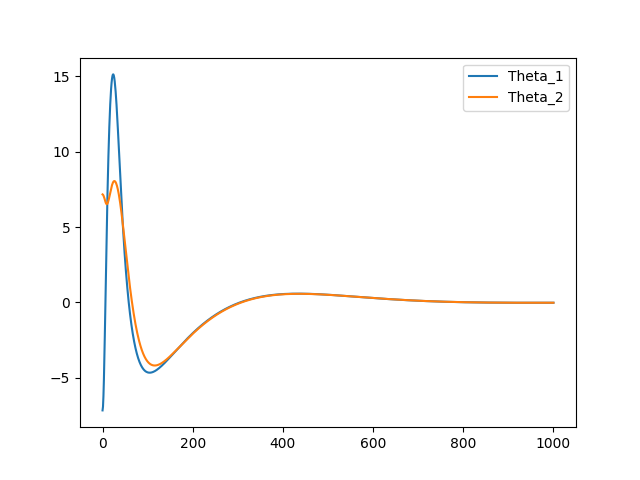
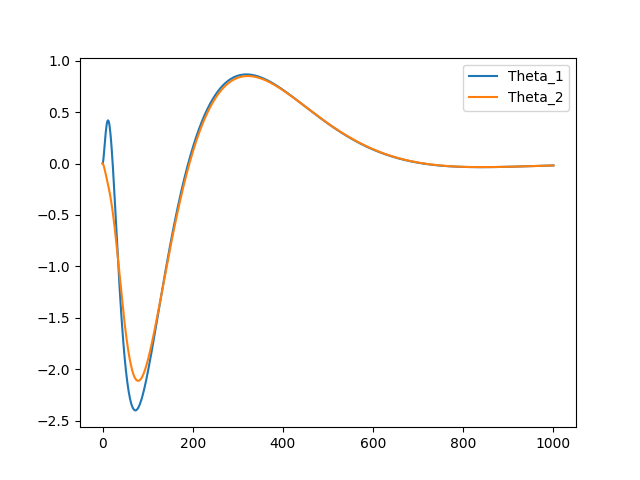
xf kinda works

diff --git a/src/ellipsoidal_method_easy.py b/src/ellipsoidal_method_easy.py
@@ -51,24 +51,21 @@ def eigen_polyhedron(P, c=1.0):
 
 
 
-def findX1(A, B, K, P, Q, R, x_ub, x_lb, u_ub, u_lb, c, initial_upper=5.0, tol=1e-3, max_iter=50):
-    """
-    Finds largest polyhedral set aligned with eigenvectors of P such that all vertices are feasible.
-    Uses binary search over the scaling factor.
-    """
-    lower = initial_upper
-    upper = initial_upper*2
+def findX1(A, B, K, P, Q, R, x_ub, x_lb, u_ub, u_lb, c, max_iter=100, tol=1e-3):
+
+    scale = 1.001
     best_scale = 0.0
     best_V = None
 
     for _ in range(max_iter):
-        scale = (upper + lower) / 2.0
         V_check = eigen_polyhedron(P, scale)
         all_satisfied = True
 
         for v in V_check:
             v = v.reshape(-1, 1)
-            u = mpc_solve_X(A, B, Q, R, P, v, 10, x_lb, x_ub, u_lb, u_ub, c)
+
+            u = mpc_solve_X(A, B, Q, R, P, v, 1, x_lb, x_ub, u_lb, u_ub, c)
+
             if u is None:
                 all_satisfied = False
                 break
@@ -76,19 +73,20 @@ def findX1(A, B, K, P, Q, R, x_ub, x_lb, u_ub, u_lb, c, initial_upper=5.0, tol=1
         if all_satisfied:
             best_scale = scale
             best_V = V_check
-            lower = scale  # Try bigger set
+            scale *= 1.1  # Try larger set
+            print(f"Increasing set size:",scale)
         else:
-            upper = scale  # Too large, reduce
+            scale *= 0.9  # Reduce set size
+            print(f"decreasing set size:",scale)
             
-        if abs(upper - lower) < tol:
+        if abs(scale - best_scale) < tol:
             break
 
     return best_V, best_scale
 
 
 
-
-def find_maximal_terminal_set(A, B, K, P, Q, R, x_ub, x_lb, u_ub, u_lb, max_iter=1000, tol=1e-5):
+def find_maximal_terminal_set(A, B, K, P, Q, R, x_ub, x_lb, u_ub, u_lb, max_iter=1000, tol=0):
     """
     Finds the maximal terminal set satisfying all constraints
     
@@ -172,6 +170,9 @@ def solve_lyapunov_discrete(A, Q):
     P = vec_P.reshape(n, n)
     
     return P
+
+def random_point_check(A, B, K, P, Q, R, x_ub, x_lb, u_ub, u_lb, c, max_iter=100, tol=1e-3):
+    
     
 
 def get_minimum_volume_ellipse(points, tolerance=0.01):
@@ -240,7 +241,7 @@ def project_vertices_2d(vertices, state_indices=[0, 1], ax=None, color='blue'):
     center, A = get_minimum_volume_ellipse(proj_vertices)
 
     for i in range(vertices.shape[0]):
-        ax.plot(vertices[i,state_indices[0]],vertices[i,state_indices[1]],'*')
+        ax.plot(vertices[i,0],vertices[i,1],'*')
     
     # Get ellipse parameters (SVD of shape matrix)
     U, s, V = np.linalg.svd(A)
@@ -262,7 +263,7 @@ def project_vertices_2d(vertices, state_indices=[0, 1], ax=None, color='blue'):
     ax.legend()
     ax.set_aspect('equal')  # Ensure equal scaling for x and y axes
     
-    return fig, ax
+    return fig, ax  
 
 if __name__ == '__main__':
     path_in_dir_script = Path(__file__).parent #fold where the main script is
@@ -272,54 +273,14 @@ if __name__ == '__main__':
     with open(path_in_dir_script/"config.json", "r") as file:
         params = json.load(file) 
 
-    #defining the constants
-    M, m1, m2 = params["M"], params["m1"], params["m2"]
-    L1, L2 = params["L1"], params["L2"]
-    l1, l2 = params["l1"], params["l2"]
-    I1, I2 = params["I1"], params["I2"]
-    g = params["g"]
 
-    #defining the matrices for the linearized system
+    dt = 0.01
 
-    J = np.array([[1,0,0,0,0,0],
-                [0,1,0,0,0,0],
-                [0,0,1,0,0,0],
-                [0,0,0,M+m1+m2,(m1*l1+m2*L1),m2*l2],
-                [0,0,0,(m1*l1+m2*L1),m1*(l1**2)+m2*(L1**2)+I1,m2*L1*l2],
-                [0,0,0,m2*l2,m2*L1*l2,m2*(l2**2)+I2]])
-
-    N = np.array([[0,0,0,1,0,0],
-                [0,0,0,0,1,0],
-                [0,0,0,0,0,1],
-                [0,0,0,0,0,0],
-                [0,(m1*l1 + m2*L1)*g,0,0,0,0],
-                [0,0,m2*l2*g,0,0,0]])
-
-    F = np.array([[0],
-                [0],
-                [0],
-                [1],
-                [0],
-                [0]])
-
-
-    #continuous dynamic matrices
-
-    Ac = np.linalg.inv(J) @ N
-    Bc = np.linalg.inv(J) @ F
-
-    Cc = np.eye(Ac.shape[0])
-    Dc = np.zeros(Bc.shape)
-
-    #discretizing the system
-    dt= 0.01
-
-    dsys = sp.signal.cont2discrete((Ac,Bc,Cc,Dc),dt,method='zoh')
-
-    A = dsys[0]
-    B = dsys[1]
-    C = dsys[2]
-    D = dsys[3]
+    A = np.array([[1,1],
+                [0,1]])
+    
+    B = np.array([[0],
+                [1]])
 
     #checking for Controllability
     if np.linalg.matrix_rank(ct.ctrb(A,B)) == A.shape[0]:
@@ -329,9 +290,9 @@ if __name__ == '__main__':
         quit()
 
     #Q and R Matrices
-    Q = sp.linalg.block_diag(1000,100,100,1,1,1) #having no weight on the disturbance component
+    Q = np.eye(A.shape[0]) #having no weight on the disturbance component
 
-    R = 100*np.eye(B.shape[1])
+    R = 3*np.eye(B.shape[1])
 
     K,_,_ = ct.dlqr(A,B,Q,R)
 
@@ -349,37 +310,31 @@ if __name__ == '__main__':
     P = solve_lyapunov_discrete(Ak,Qk) #Solution to equation given in slides ... sus!!!
 
     theta_const = 0.174 #10 degrees in radians
-    x_const = 3
-    u_const = float('inf')
-    o = float('inf')
+    x_const = 3/4
+    u_const = 1/2
+    o = 5
 
-    x_ub = np.array([x_const, theta_const, theta_const, o, o, o]).reshape(-1,1)
-    x_lb = np.array([-x_const,-theta_const,-theta_const,-o,-o,-o]).reshape(-1,1)
+    x_ub = np.array([x_const, x_const]).reshape(-1,1)
+    x_lb = np.array([-x_const,-x_const]).reshape(-1,1)
     u_ub = np.array(u_const).reshape(-1,1)
     u_lb = np.array(-u_const).reshape(-1,1)
 
-    x_ref = np.array([0,math.radians(0),-math.radians(0),0,0,0]).reshape(-1,1)
-    u_ref = 0
-
     terminal_vertices, scaling_factor = find_maximal_terminal_set(A, B, K, P, Q, R, x_ub, x_lb, u_ub, u_lb)
-    print(f"Found terminal set with scaling factor: {scaling_factor}")
-    # print(f"terminal set vertices:",terminal_vertices)
 
     c = 0.5 * terminal_vertices[0,:] @ P @ terminal_vertices[0,:].T
+    print(f"Found terminal set with scaling factor: {scaling_factor}")
+    print(f"c=", c)
 
+    
 
-    X1, cc = findX1(A, B, K, P, Q, R, x_ub, x_lb, u_ub, u_lb,c,scaling_factor)
+    X1, cc = findX1(A, B, K, P, Q, R, x_ub, x_lb, u_ub, u_lb,c)
 
-    fig1, ax1 = project_vertices_2d(terminal_vertices, state_indices=[1,2])  
-    fig1 ,ax1 = project_vertices_2d(X1, state_indices=[1,2],ax=ax1,color='red')
+    fig1, ax1 = project_vertices_2d(terminal_vertices, state_indices=[0,1])  
+    fig1 ,ax1 = project_vertices_2d(X1, state_indices=[0,1],ax=ax1,color='red')
     plt.show()
 
-    fig2, ax2 = project_vertices_2d(terminal_vertices, state_indices=[0,3])  
-    fig2 ,ax2 = project_vertices_2d(X1, state_indices=[0,3],ax=ax2,color='red')
-    plt.show()
-
-    fig3, ax3 = project_vertices_2d(terminal_vertices, state_indices=[4,5])  
-    fig3 ,ax3 = project_vertices_2d(X1, state_indices=[4,5],ax=ax3,color='red')
+    # fig2, ax2 = project_vertices_2d(terminal_vertices, state_indices=[1,2])  
+    # fig2 ,ax2 = project_vertices_2d(X1, state_indices=[0,3],ax=ax2,color='red')
     plt.show()
 
 

diff --git a/src/regulation_mpc.py b/src/regulation_mpc.py
@@ -86,6 +86,7 @@ T = 10
 time = np.arange(0, T, dt)
 
 y = np.array([0, -0.125, 0.125, 0, 0, 0])
+# y = np.array([1, 0, 0, 0, 0, 0])
 states = [y]
 # print(y.shape)
 
@@ -106,15 +107,19 @@ u_lb = np.array(-u_const).reshape(-1,1)
 control_inputs = [0]
 
 #MPC horizon
-N = 100
+N = 20
 N = int(N)  
 print(N)
-
+flag = True
 # Simulation loop
 for t in time:
 
     x_cur = states[-1].reshape(-1,1)
     u = mpc_solve(A, B, Q, R, P, x_cur, N, x_lb, x_ub, u_lb, u_ub, x_ref, u_ref)
+    if u is None:
+        print("MPC not possible for the given conditions")
+        flag = False
+        break
     print(f"Percentage done",(t/T)*100)
     y = rk4_step(y, dt,params,u[0][0][0])
     control_inputs.append(u[0][0][0])
@@ -124,30 +129,31 @@ for t in time:
     # print(f'Force:',u[0][0][0])
     states.append(y)
 
-states = np.array(states)
-animated(states, time, params, control_inputs,path_out_dir/"MPC.gif")
+if flag:
+    states = np.array(states)
+    animated(states, time, params, control_inputs,path_out_dir/"MPC.gif")
 
-plt.figure()
-plt.plot(control_inputs)
-plt.savefig(path_out_dir/"./Control_input.png")
+    plt.figure()
+    plt.plot(control_inputs)
+    plt.savefig(path_out_dir/"./Control_input.png")
 
 
-plt.figure()
-plt.plot(states[:,0])
-plt.savefig(path_out_dir/"./Position.png")
+    plt.figure()
+    plt.plot(states[:,0])
+    plt.savefig(path_out_dir/"./Position.png")
 
-plt.figure()
-plt.plot(np.rad2deg(states[:,1]))
-plt.plot(np.rad2deg(states[:,2]))
-plt.legend(['Theta1','Theta2'])
-plt.savefig(path_out_dir/"./theta.png")
+    plt.figure()
+    plt.plot(np.rad2deg(states[:,1]))
+    plt.plot(np.rad2deg(states[:,2]))
+    plt.legend(['Theta1','Theta2'])
+    plt.savefig(path_out_dir/"./theta.png")
 
-plt.figure()
-plt.plot(states[:,3])
-plt.savefig(path_out_dir/"./Position_dot.png")
+    plt.figure()
+    plt.plot(states[:,3])
+    plt.savefig(path_out_dir/"./Position_dot.png")
 
-plt.figure()
-plt.plot(states[:,4])
-plt.plot(states[:,5])
-plt.legend(['Theta1_dot','Theta2_dot'])
-plt.savefig(path_out_dir/"./theta_dot.png")
+    plt.figure()
+    plt.plot(states[:,4])
+    plt.plot(states[:,5])
+    plt.legend(['Theta1_dot','Theta2_dot'])
+    plt.savefig(path_out_dir/"./theta_dot.png")

diff --git a/src/mpc_solver.py b/src/mpc_solver.py
@@ -6,6 +6,7 @@ import matplotlib.pyplot as plt
 import scipy as sp
 import control as ct
 import gurobipy
+from scipy.optimize import minimize
 
 def mpc_solve(A, B, Q, R, P, x0, N, x_lb, x_ub, u_lb, u_ub, x_ref, u_ref):
     
@@ -31,6 +32,46 @@ def mpc_solve(A, B, Q, R, P, x0, N, x_lb, x_ub, u_lb, u_ub, x_ref, u_ref):
     
     # Solve the problem
     prob = cp.Problem(cp.Minimize(cost), constraints)
-    prob.solve(solver = cp.GUROBI,verbose=False)
+    try:
+        prob.solve(solver=cp.GUROBI, verbose=False)
+    except cp.error.SolverError:
+    # Solver failed entirely
+        return None
+    
+    return u_bar.value
+
+def mpc_solve_X(A, B, Q, R, P, x0, N, x_lb, x_ub, u_lb, u_ub, c):
+    
+    dim_x = A.shape[0]
+    dim_u = B.shape[1]
+    # print(dim_x)
+    # Define the optimization variables
+    x_bar = cp.Variable((N+1, dim_x, 1))
+    u_bar = cp.Variable((N, dim_u, 1))
+
+    # Cost & constraints
+    cost = 0.
+    constraints = []
+    constraints += [x_bar[0, :] == x0]
+    for t in range(N):
+        constraints += [x_bar[t+1, :] == A @ x_bar[t, :] + B @ u_bar[t, :]]
+        constraints += [x_bar[t+1, :] <= x_ub , x_bar[t+1,:] >= x_lb]
+        constraints += [u_lb <= u_bar[t, :], u_bar[t, :] <= u_ub] 
+
+        cost += 0.5 * cp.quad_form(x_bar[t, :], Q) + 0.5 * cp.quad_form(u_bar[t, :], R*np.eye(u_bar[t,:].shape[0]))
+    
+    constraints += [0.5 * cp.quad_form(x_bar[N, :], P) <= c] 
+    
+    cost += 0.5 * cp.quad_form(x_bar[N, :], P)
+    
+    # Solve the problem
+    prob = cp.Problem(cp.Minimize(cost), constraints)
+    # prob.solve(solver = cp.GUROBI,verbose=False)
+
+    try:
+        prob.solve(solver=cp.GUROBI, verbose=False)
+    except cp.error.SolverError:
+    # Solver failed entirely
+        return None
     
     return u_bar.value

diff --git a/src/lqr_control.py b/src/lqr_control.py
@@ -76,7 +76,8 @@ K,S,E = ct.dlqr(A,B,Q,R)
 T = 10
 time = np.arange(0, T, dt)
 
-y = np.array([0, -0.125, 0.125, 0, 0, 0])
+# y = np.array([0, -0.125, 0.125, 0, 0, 0])
+y = np.array([1, 0, 0, 0, 0, 0])
 states = [y]
 control_inputs = [0]
 

diff --git a/src/offset_free_mpc.py b/src/offset_free_mpc.py
@@ -109,7 +109,7 @@ else:
 #Duration of the experiment
 T = 10
 time = np.arange(0, T, dt)
-
+    
 #Q and R Matrices
 Q = sp.linalg.block_diag(1000,100,100,1,1,1) #having no weight on the disturbance component
 
